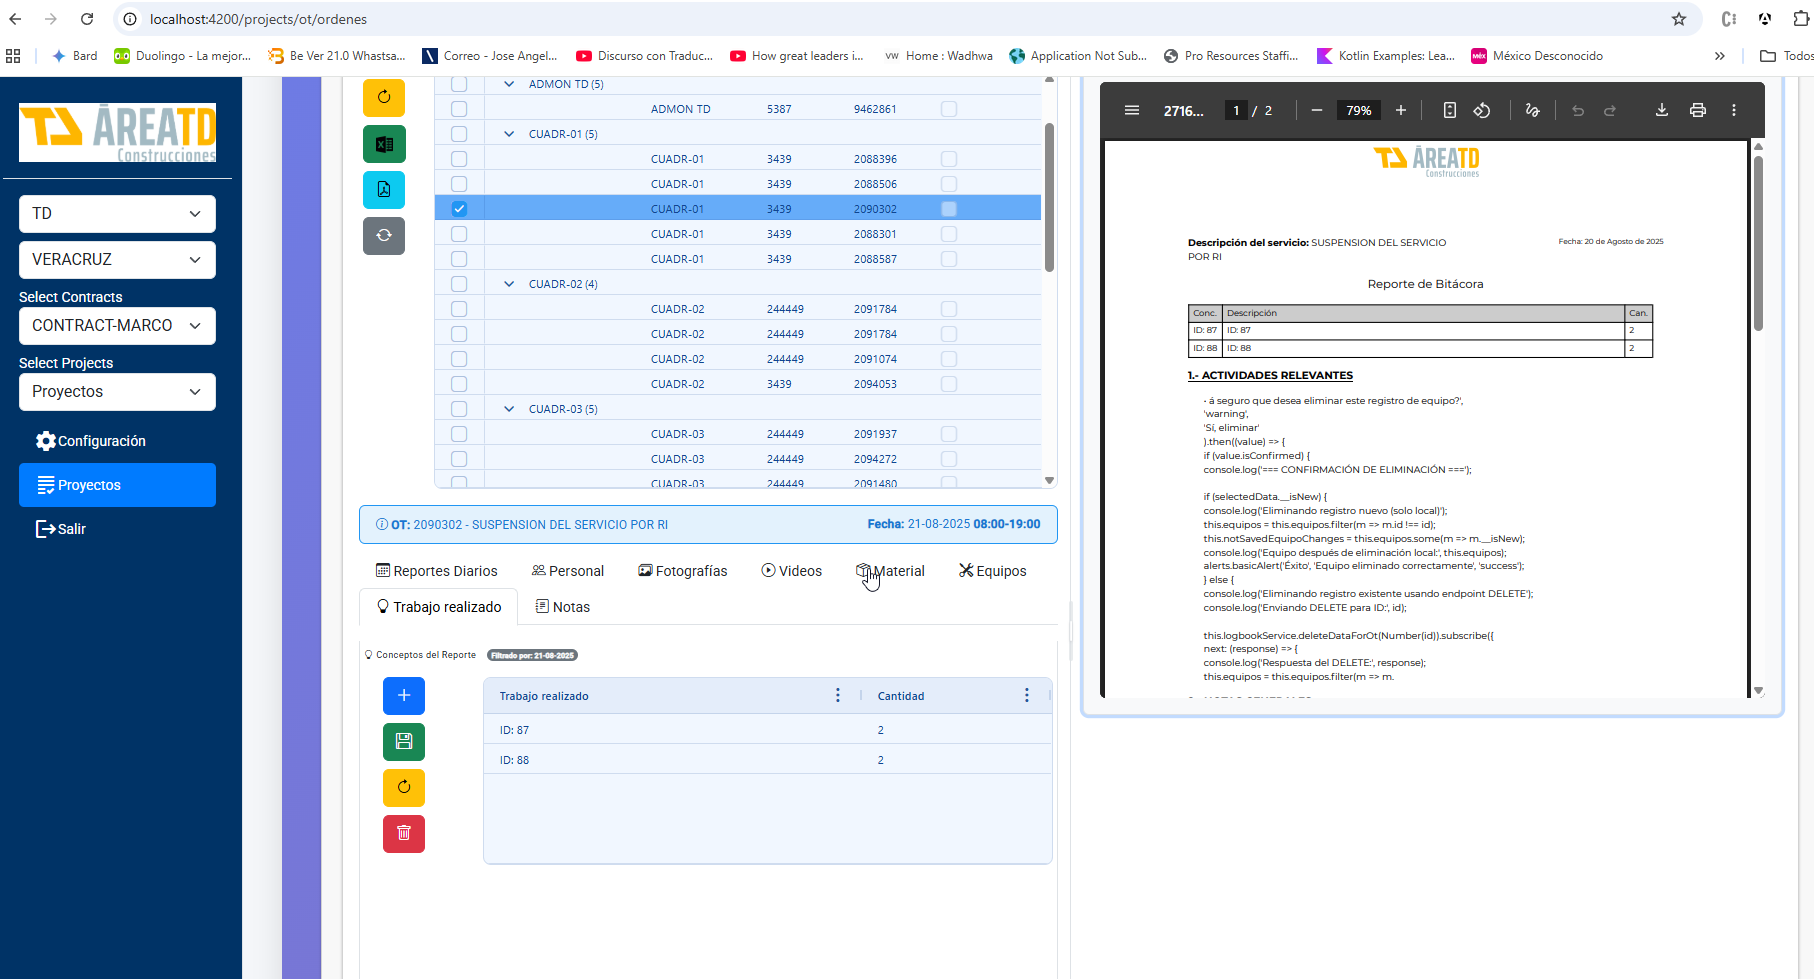
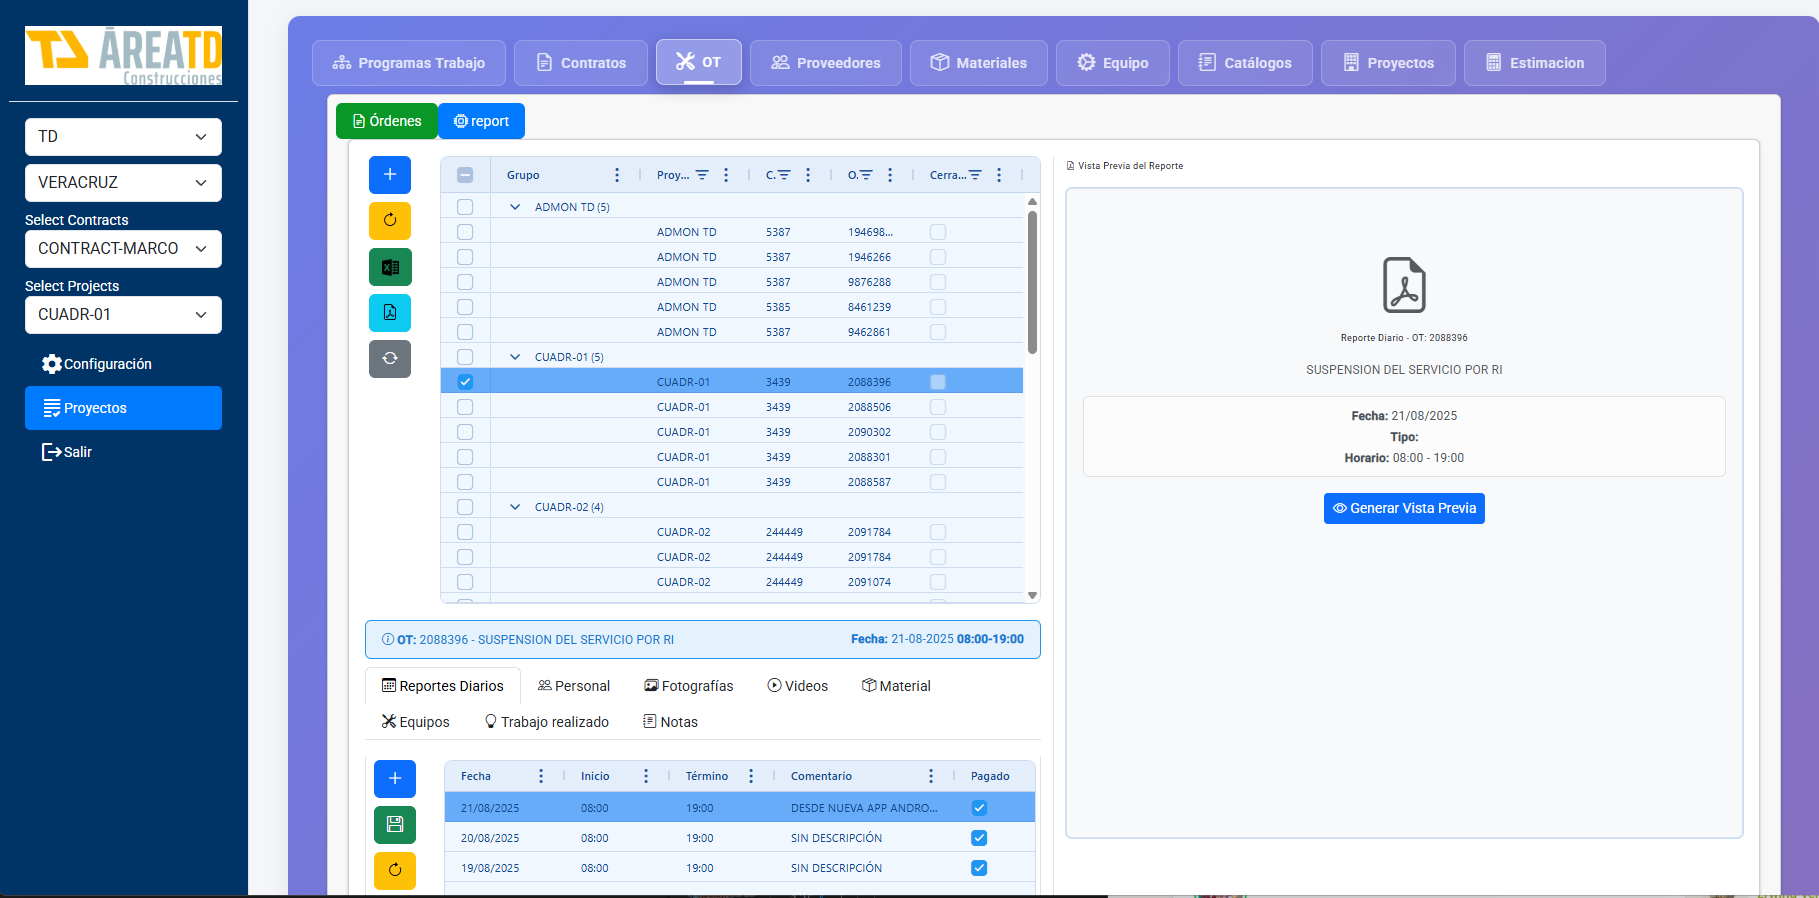
Update changes for SignalR

diff --git a/src/app/services/signalr.service.ts b/src/app/services/signalr.service.ts
@@ -1,0 +1,10 @@
+import { Injectable } from '@angular/core';
+import * as signalR from '@microsoft/signalr';
+
+@Injectable({
+  providedIn: 'root'
+})
+export class SignalrService {
+
+  constructor() { }
+}
